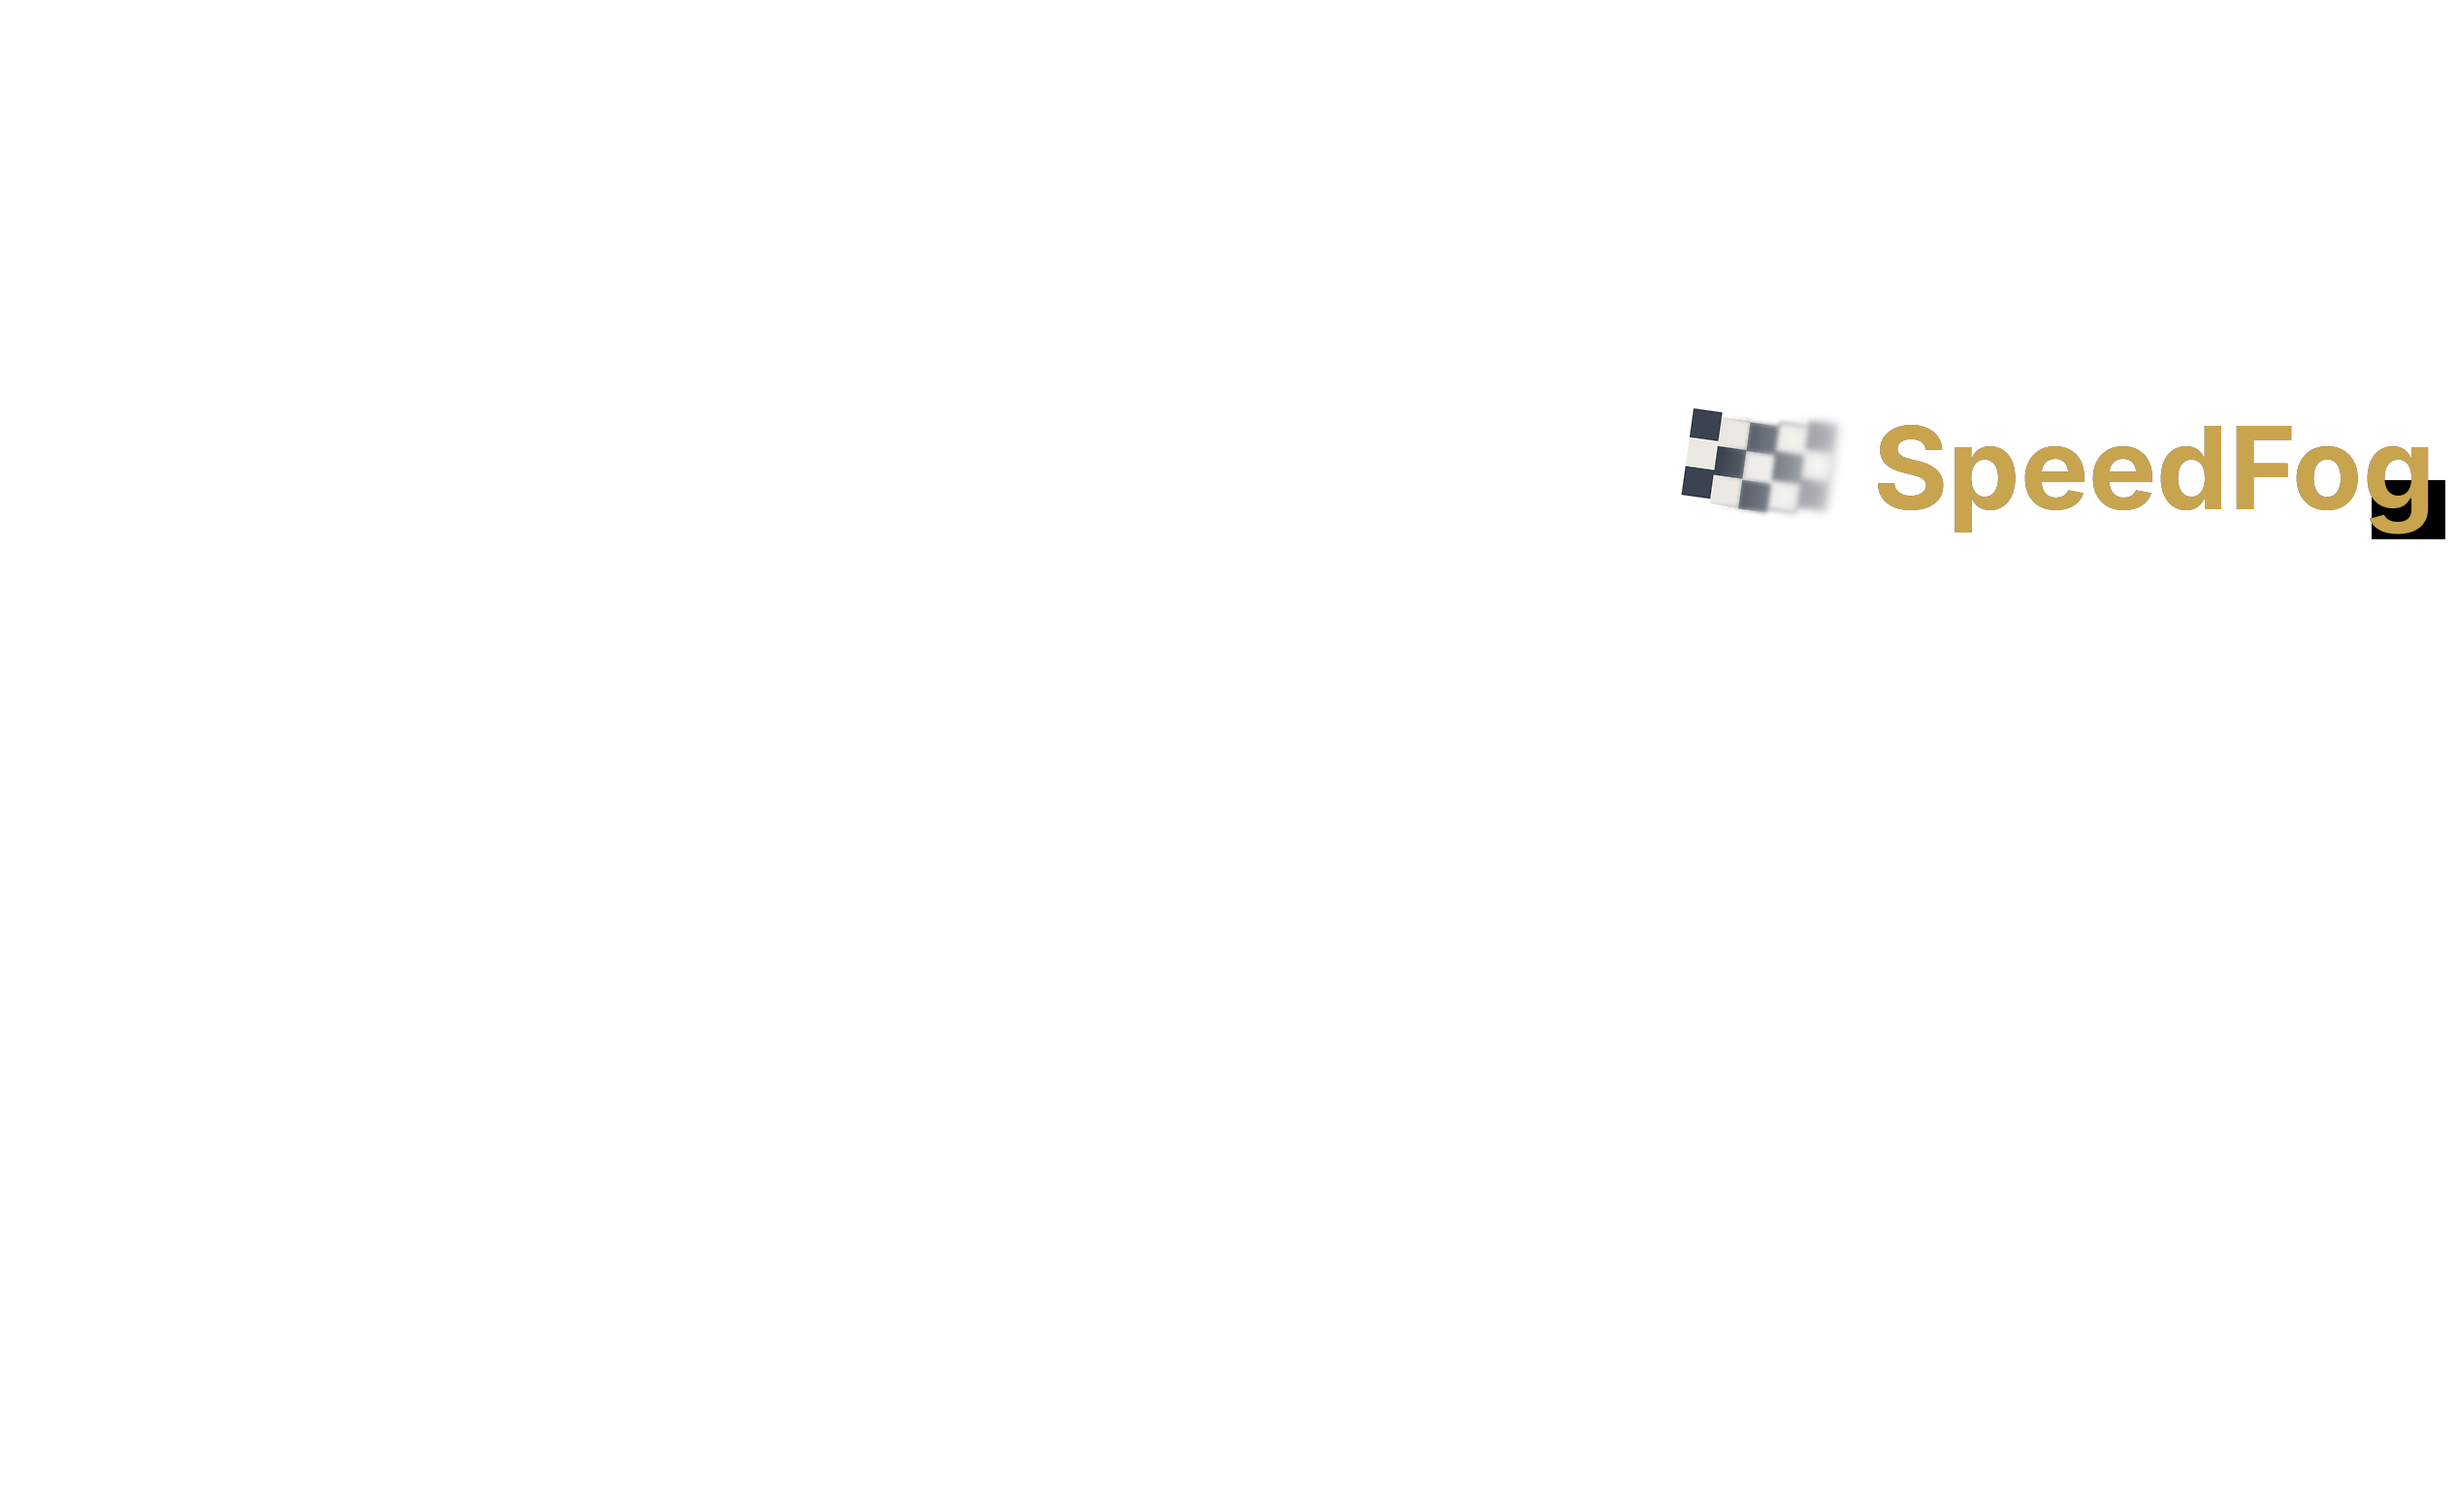
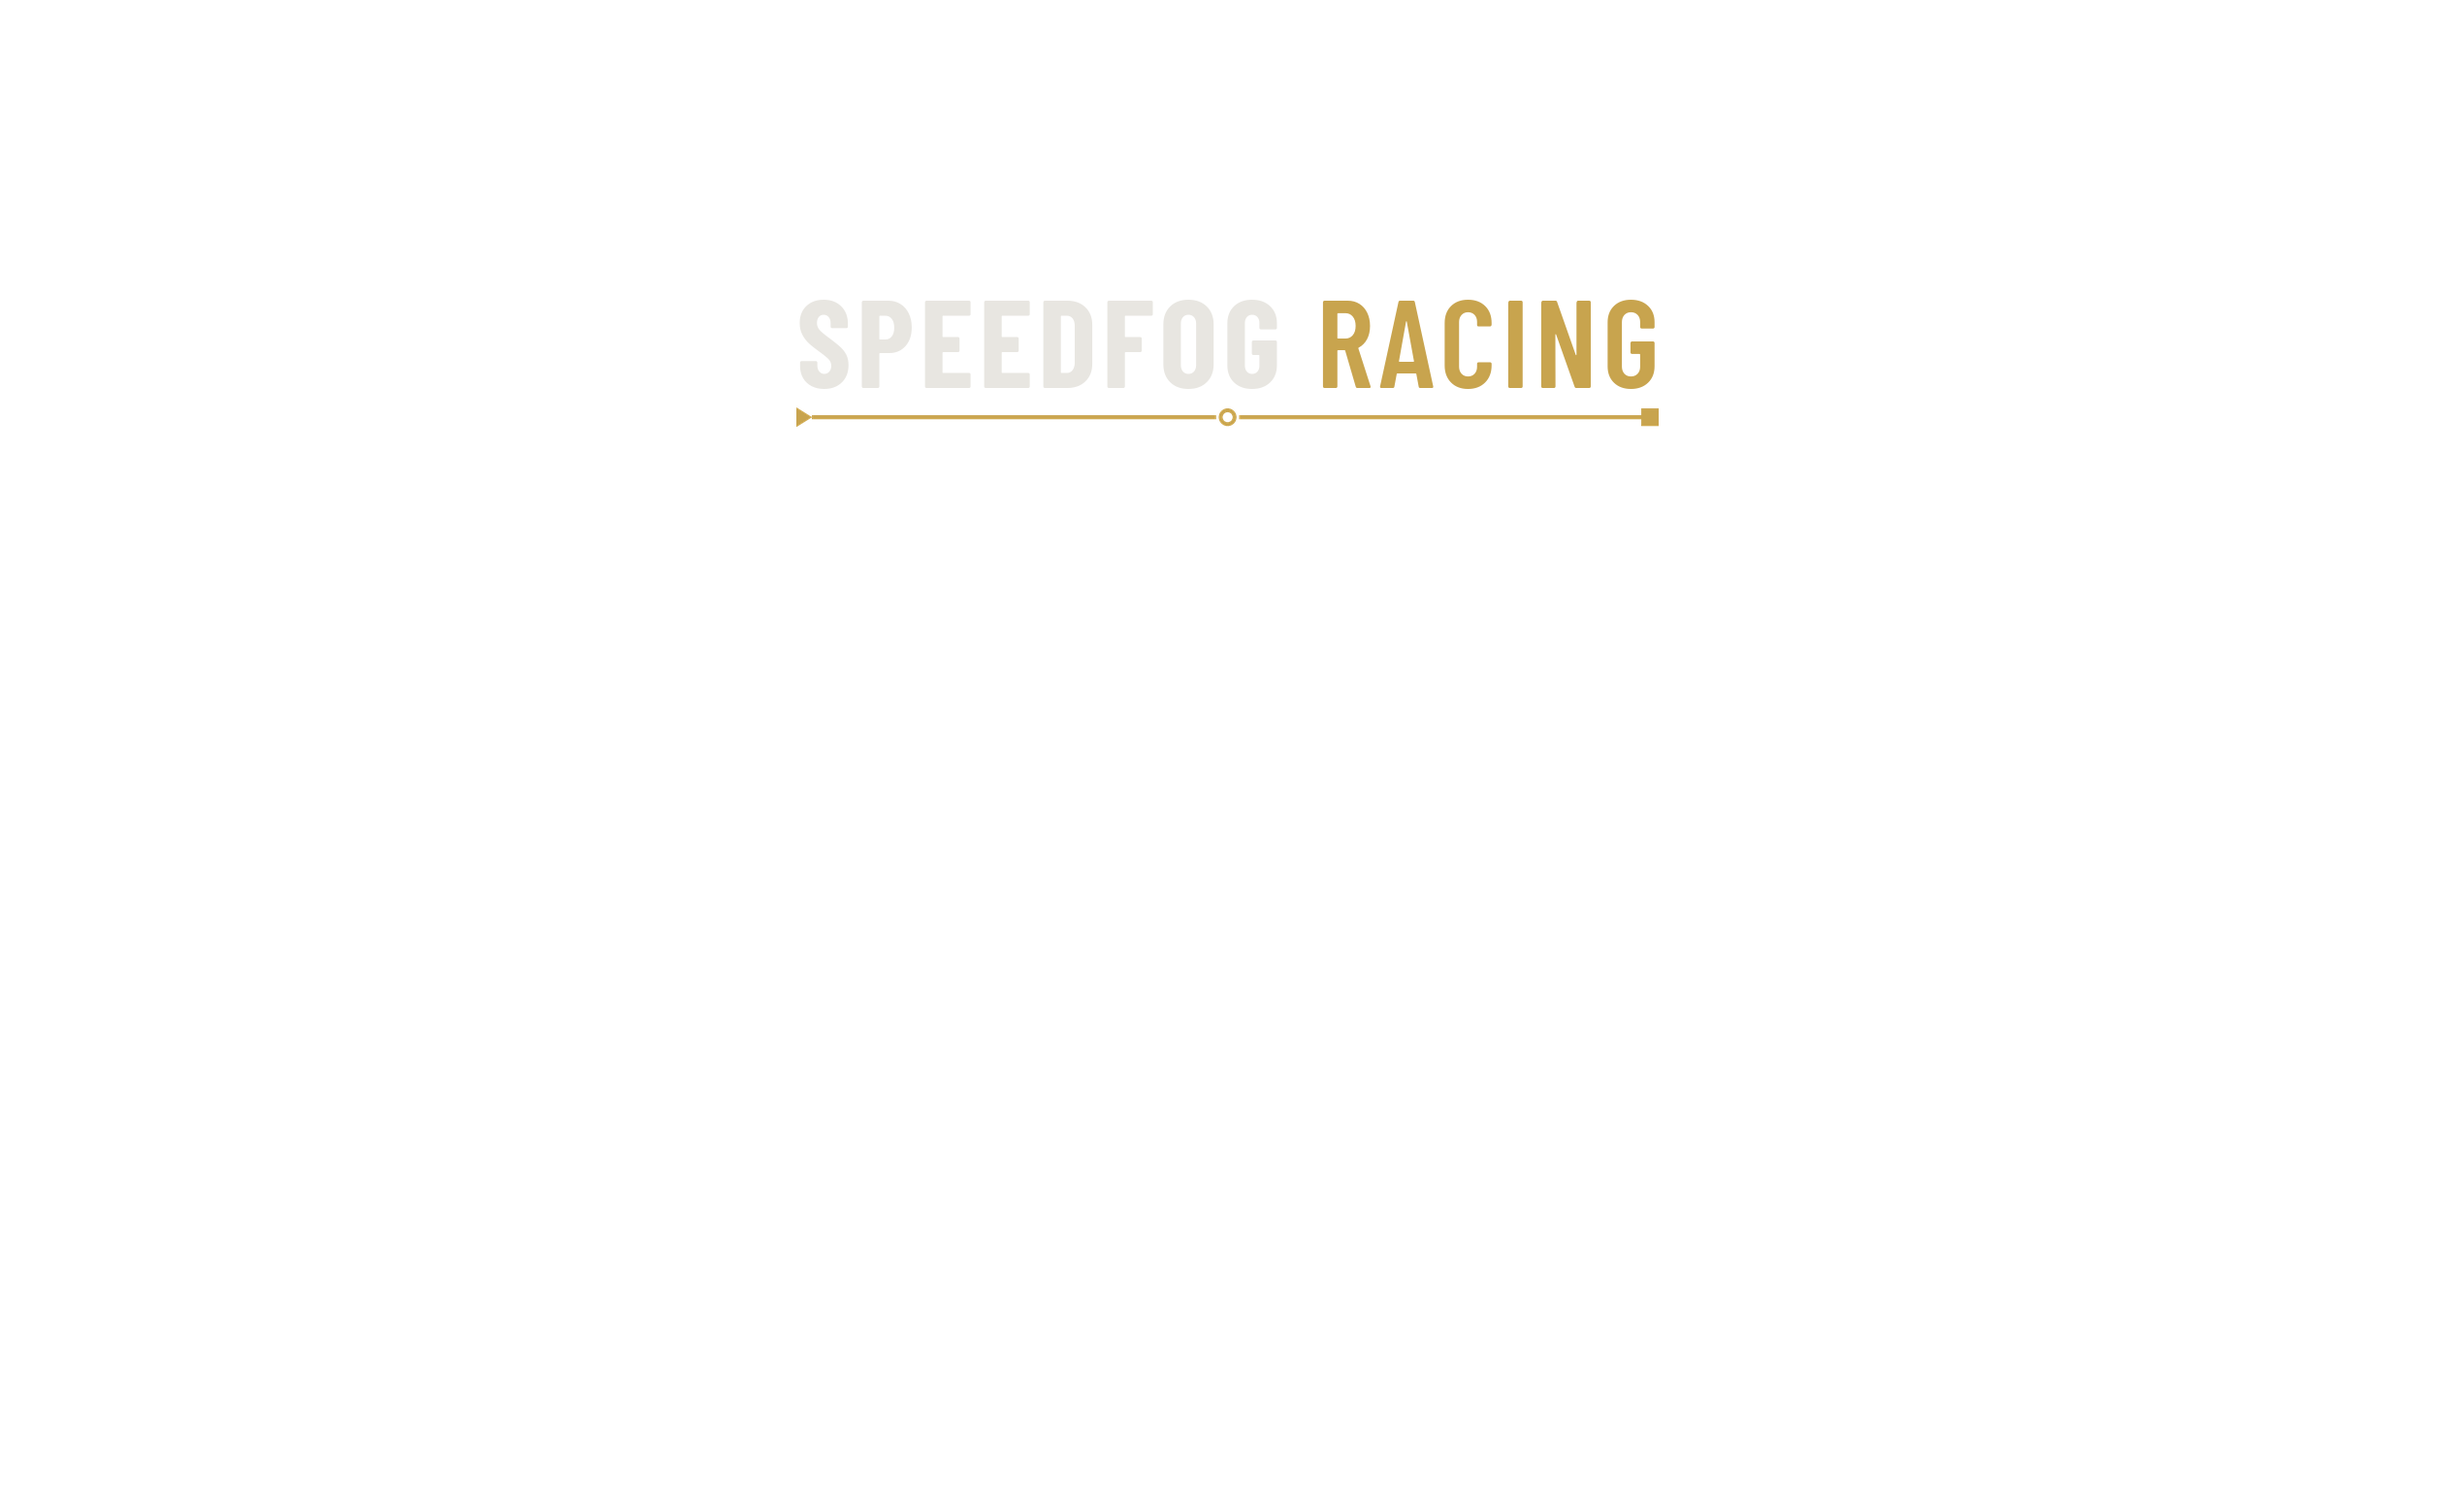
polish(gamepatcher): charter wordmark and route underline on the title badge

Changed region(s): [[0.312, 0.1841, 0.9984, 0.3681]]

diff --git a/tools/generate_title_screen.py b/tools/generate_title_screen.py
@@ -2,107 +2,134 @@
 """Generate data/title_screen_overlay.png (2532x1532 RGBA, mostly transparent).
 
 The overlay is alpha-composited by GamePatcher's TitleScreenPatcher onto the
-vanilla title screen artwork (MENU_Title_EldenRing_01): a sober SpeedFog badge
-at the top right of the ELDEN RING logo, in the erased TM glyph's area. Identity
-from speedfog-racing's og-image.svg: Inter Bold wordmark in the site's gold
-#c8a44e, and a small waving checkered flag dissolving into fog toward the
-right (progressive blur + alpha fade). The badge also paints an opaque black
-patch over the vanilla TM glyph, whose spot it takes.
+vanilla title screen artwork (MENU_Title_EldenRing_01): the SpeedFog Racing
+wordmark centered above the ELDEN RING logo, per speedfog-racing's graphic
+charter (docs/GRAPHIC_CHARTER.md there): SPEEDFOG in Barlow Condensed 700
+off-white #e8e6e1, RACING in Barlow Condensed 600 brass #c8a44e, 0.04em
+tracking, and the brass hero route underline beneath (start triangle, line,
+station ring, line, terminal square). The badge no longer sits on the TM
+glyph's spot, so the vanilla TM stays untouched.
+
+The letterforms come from the TTF conversions committed in the sibling
+speedfog-racing checkout (server/speedfog_racing/static/fonts/, generated by
+its tools/generate_brand_assets.py), so both projects draw the wordmark from
+the same faces.
 
 The output is committed; re-run this script only to change the design, then
 regenerate the overlay (see docs/title-screen.md). Standalone from the project
-venv: requires Pillow and the Inter fonts (Debian: fonts-inter). Deterministic,
-but glyph rasterization and blur vary across Pillow/FreeType/font versions, so
-a different environment may produce a byte-different (visually identical) file.
+venv: requires Pillow and the sibling checkout. Deterministic, but glyph
+rasterization varies across Pillow/FreeType versions, so a different
+environment may produce a byte-different (visually identical) file.
 """
 
-import math
 import sys
 from pathlib import Path
 
-from PIL import Image, ImageChops, ImageDraw, ImageFilter, ImageFont
+from PIL import Image, ImageDraw, ImageFont
 
 W, H = 2532, 1532
-INTER_BOLD = "/usr/share/fonts/opentype/inter/Inter-Bold.otf"
+
+RACING_FONTS = (
+    Path(__file__).resolve().parent.parent.parent
+    / "speedfog-racing"
+    / "server"
+    / "speedfog_racing"
+    / "static"
+    / "fonts"
+)
+COND700 = RACING_FONTS / "barlow-condensed-700-latin.ttf"
+COND600 = RACING_FONTS / "barlow-condensed-600-latin.ttf"
+
+BRASS = (200, 164, 78, 255)  # #c8a44e
+OFFWHITE = (232, 230, 225, 255)  # #e8e6e1
+
+# validated composition (2026-08-08): wordmark centered above the ELDEN RING
+# lettering, between the top arc and the logo
+SIZE = 128
+CENTER_X = 1266
+BASELINE = 400
+
+
+def draw_tracked(
+    draw: ImageDraw.ImageDraw,
+    x: float,
+    baseline: int,
+    text: str,
+    font: ImageFont.FreeTypeFont,
+    fill: tuple[int, int, int, int],
+    tracking: float,
+) -> float:
+    """Draw text char by char with letter-spacing; return the end x."""
+    for ch in text:
+        draw.text((x, baseline), ch, font=font, anchor="ls", fill=fill)
+        x += font.getlength(ch) + tracking
+    return x
+
+
+def tracked_width(text: str, font: ImageFont.FreeTypeFont, tracking: float) -> float:
+    """Advance width of tracked text, excluding the trailing tracking."""
+    w = sum(font.getlength(ch) for ch in text) + tracking * len(text)
+    return w - tracking if text else 0.0
+
+
+def route_underline(
+    width: int, color: tuple[int, int, int, int], ss: int = 4
+) -> Image.Image:
+    """The hero route underline: triangle, line, ring, line, terminal square.
+
+    Drawn supersampled at ss then downscaled (Pillow shapes are aliased at
+    1x). Logical height 24px, the line rides the vertical center.
+    """
+    LH = 24
+    img = Image.new("RGBA", (width * ss, LH * ss), (0, 0, 0, 0))
+    d = ImageDraw.Draw(img)
+    cy = LH // 2 * ss
+    lw = 4 * ss
+    tri_w, tri_h = 16 * ss, 20 * ss
+    ring_r, ring_sw = 9 * ss, 4 * ss
+    sq = 18 * ss
+    end = width * ss
+    mid = end // 2
+    d.polygon([(0, cy - tri_h // 2), (0, cy + tri_h // 2), (tri_w, cy)], fill=color)
+    d.rectangle([tri_w, cy - lw // 2, mid - ring_r - 3 * ss, cy + lw // 2], fill=color)
+    d.rectangle(
+        [mid + ring_r + 3 * ss, cy - lw // 2, end - sq, cy + lw // 2], fill=color
+    )
+    d.ellipse(
+        [mid - ring_r, cy - ring_r, mid + ring_r, cy + ring_r],
+        outline=color,
+        width=ring_sw,
+    )
+    d.rectangle([end - sq, cy - sq // 2, end, cy + sq // 2], fill=color)
+    return img.resize((width, LH), Image.LANCZOS)
 
 
 def main() -> int:
-    if not Path(INTER_BOLD).exists():
-        print(
-            f"Error: {INTER_BOLD} not found (Debian: apt install fonts-inter)",
-            file=sys.stderr,
-        )
-        return 1
+    for f in (COND700, COND600):
+        if not f.exists():
+            print(
+                f"Error: {f} not found (requires the sibling speedfog-racing "
+                "checkout; its tools/generate_brand_assets.py generates the TTFs)",
+                file=sys.stderr,
+            )
+            return 1
 
     overlay = Image.new("RGBA", (W, H), (0, 0, 0, 0))
+    d = ImageDraw.Draw(overlay)
 
-    # --- badge geometry: anchored top-right, in the erased TM glyph's area ---
-    TEXT = "SpeedFog"
-    font = ImageFont.truetype(INTER_BOLD, 118)
-    bbox = font.getbbox(TEXT)
-    text_w = bbox[2] - bbox[0]
-    right_edge = 2510
-    baseline_y = 525
-    text_x = right_edge - text_w
-
-    # erase the vanilla TM glyph: the badge takes its place
-    pd = ImageDraw.Draw(overlay)
-    pd.rectangle([2445, 495, 2520, 555], fill=(0, 0, 0, 255))
-
-    # the wordmark, in the site's gold #c8a44e
-    txt = Image.new("L", (W, H), 0)
-    td = ImageDraw.Draw(txt)
-    td.text((text_x, baseline_y), TEXT, font=font, anchor="ls", fill=255)
-    overlay.paste(Image.new("RGBA", (W, H), (200, 164, 78, 255)), (0, 0), txt)
-
-    # mini waving checkered flag to the left of the text, dissolving into fog
-    # toward the right: progressive blur plus alpha fade (fog reads as the
-    # simultaneous loss of sharpness and opacity)
-    FCELL = 30
-    FROWS, FCOLS = 3, 5
-    pad = 40  # room for the blur to bleed outside the checker
-    core_w = FCOLS * FCELL
-    core_h = FROWS * FCELL
-    flag_w = core_w + pad * 2
-    flag_h = core_h + pad * 2
-    flag = Image.new("RGBA", (flag_w, flag_h), (0, 0, 0, 0))
-    fd = ImageDraw.Draw(flag)
-    for col in range(FCOLS):
-        wave = 7 * math.sin(col * 0.9)
-        for row in range(FROWS):
-            light = (row + col) % 2 == 1
-            color = (232, 230, 225, 235) if light else (22, 32, 48, 215)
-            x0 = pad + col * FCELL
-            y0 = pad + row * FCELL + wave
-            fd.rectangle([x0, y0, x0 + FCELL - 1, y0 + FCELL - 1], fill=color)
-
-    def hramp(x0: int, x1: int, a0: int, a1: int) -> Image.Image:
-        """Horizontal ramp mask: a0 left of x0, a1 right of x1, linear between."""
-        ramp = Image.new("L", (flag_w, flag_h), 0)
-        rd = ImageDraw.Draw(ramp)
-        for x in range(flag_w):
-            if x <= x0:
-                v = a0
-            elif x >= x1:
-                v = a1
-            else:
-                v = int(a0 + (a1 - a0) * (x - x0) / (x1 - x0))
-            rd.line([(x, 0), (x, flag_h)], fill=v)
-        return ramp
-
-    blur_mid = flag.filter(ImageFilter.GaussianBlur(2.5))
-    blur_far = flag.filter(ImageFilter.GaussianBlur(6))
-    flag = Image.composite(blur_mid, flag, hramp(pad + 30, pad + 90, 0, 255))
-    flag = Image.composite(blur_far, flag, hramp(pad + 90, pad + core_w + 20, 0, 255))
-    r, g, b, a = flag.split()
-    a = ImageChops.multiply(a, hramp(pad + 35, pad + core_w + 15, 255, 70))
-    flag = Image.merge("RGBA", (r, g, b, a))
-
-    flag = flag.rotate(-8, resample=Image.BICUBIC, expand=False)
-    # anchor the checker itself (pad-independent position)
-    checker_x = text_x - core_w - 42
-    checker_top = baseline_y - 94
-    overlay.alpha_composite(flag, (checker_x - pad, checker_top - pad))
+    f700 = ImageFont.truetype(str(COND700), SIZE)
+    f600 = ImageFont.truetype(str(COND600), SIZE)
+    tracking = 0.04 * SIZE
+    gap = f700.getlength(" ") + 2 * tracking
+    w1 = tracked_width("SPEEDFOG", f700, tracking)
+    w2 = tracked_width("RACING", f600, tracking)
+    total = w1 + gap + w2
+    x0 = CENTER_X - total / 2
+    draw_tracked(d, x0, BASELINE, "SPEEDFOG", f700, OFFWHITE, tracking)
+    draw_tracked(d, x0 + w1 + gap, BASELINE, "RACING", f600, BRASS, tracking)
+    overlay.alpha_composite(
+        route_underline(int(total), BRASS), (int(x0), BASELINE + 18)
+    )
 
     out = Path(__file__).resolve().parent.parent / "data" / "title_screen_overlay.png"
     overlay.save(out, optimize=True)

diff --git a/docs/title-screen.md b/docs/title-screen.md
@@ -3,7 +3,7 @@
 **Date:** 2026-08-03
 **Status:** Active (redirect model validated in-game)
 
-Overlays a SpeedFog badge (Inter wordmark + waving checkered flag, top right of the logo) onto the vanilla ELDEN RING title screen artwork. Applied at setup by GamePatcher (`TitleScreenPatcher`), not per-seed, and shipped as ~1.5 MB of patched files instead of the 112 MB a naive atlas replacement would cost.
+Overlays the SpeedFog Racing badge (the charter wordmark + brass route underline, centered above the logo) onto the vanilla ELDEN RING title screen artwork. Applied at setup by GamePatcher (`TitleScreenPatcher`), not per-seed, and shipped as ~1.5 MB of patched files instead of the 112 MB a naive atlas replacement would cost.
 
 ## How the game resolves the title image
 
@@ -25,7 +25,7 @@ Instead of shipping a modified 65 MB atlas, the patch **redirects the lookup** (
 
 Encoding is single-threaded: BCnEncoder's parallel encode loop crashes non-deterministically under Wine's .NET runtime (see the comment in `TitleScreenPatcher.CompositeAndEncode`); serial Balanced takes ~90s and re-encoding BC7-decoded content gains nothing visible from BestQuality. Inside the sprite the vanilla art goes through one decode/re-encode generation, visually lossless in practice at Balanced (measured max per-channel delta 29/255, mean ~1).
 
-The committed artwork is `data/title_screen_overlay.png`, a **2532x1532 RGBA overlay, transparent except the badge** (plus an opaque black patch erasing the vanilla TM glyph, whose spot the badge takes): the wordmark in the site's gold #c8a44e and a checkered flag dissolving into fog toward the right. It is generated by `tools/generate_title_screen.py` (deterministic on a fixed Pillow + fonts-inter environment; standalone from the project venv): edit that script and re-run it to change the design.
+The committed artwork is `data/title_screen_overlay.png`, a **2532x1532 RGBA overlay, transparent except the badge** (the vanilla TM glyph is left untouched now that the badge no longer takes its spot): the speedfog-racing charter wordmark, `SPEEDFOG` in Barlow Condensed 700 off-white `#e8e6e1` and `RACING` in 600 brass `#c8a44e`, centered above the ELDEN RING lettering with the brass hero route underline (triangle, line, station ring, line, terminal square) beneath. It is generated by `tools/generate_title_screen.py` (deterministic on a fixed Pillow environment; standalone from the project venv; the Barlow Condensed TTFs come from the sibling speedfog-racing checkout, `server/speedfog_racing/static/fonts/`): edit that script and re-run it to change the design.
 
 `speedfog/main.py` already copies `data/overlay/` recursively into each seed's `mods/fogmod/`, and ModEngine 2 picks the files up as loose-file overrides. No per-seed work, and no vanilla art is committed to the repo.
 
